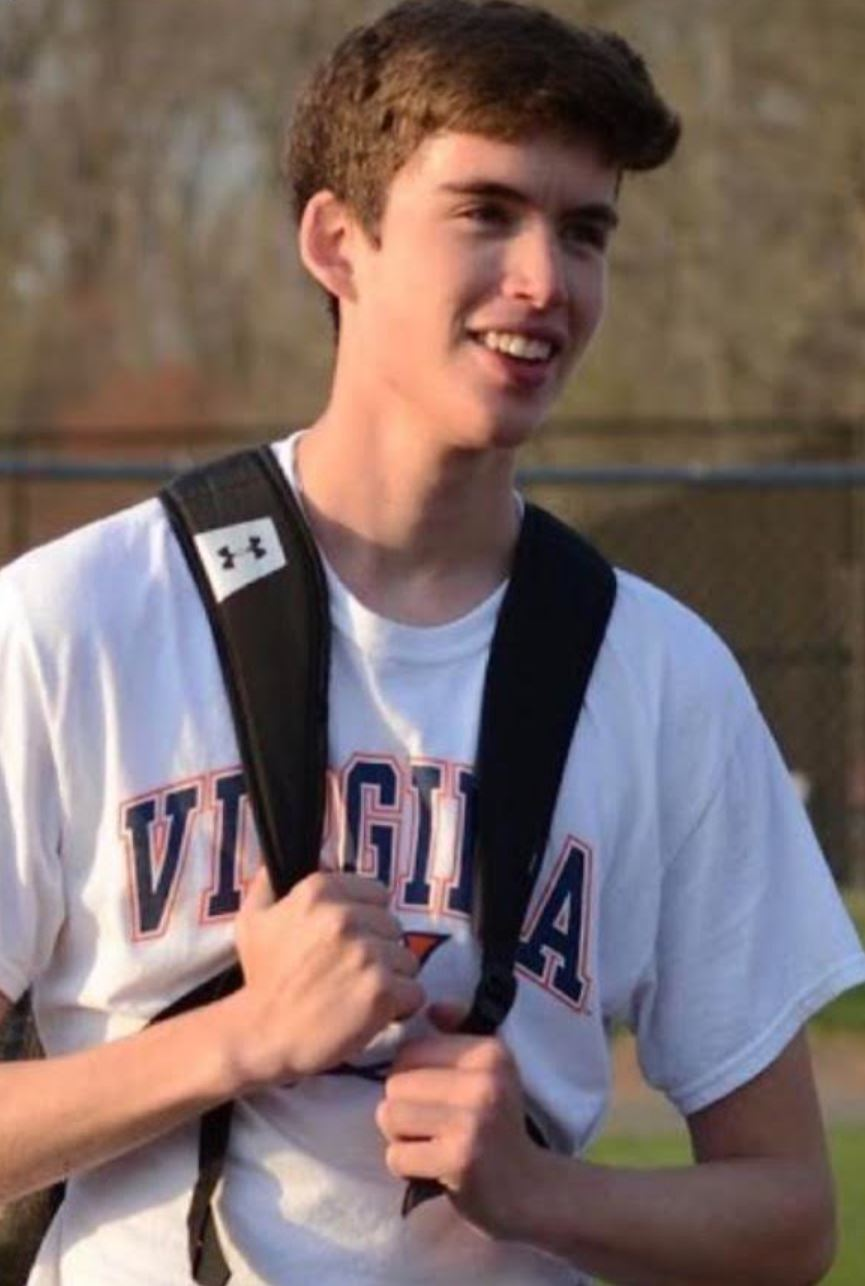
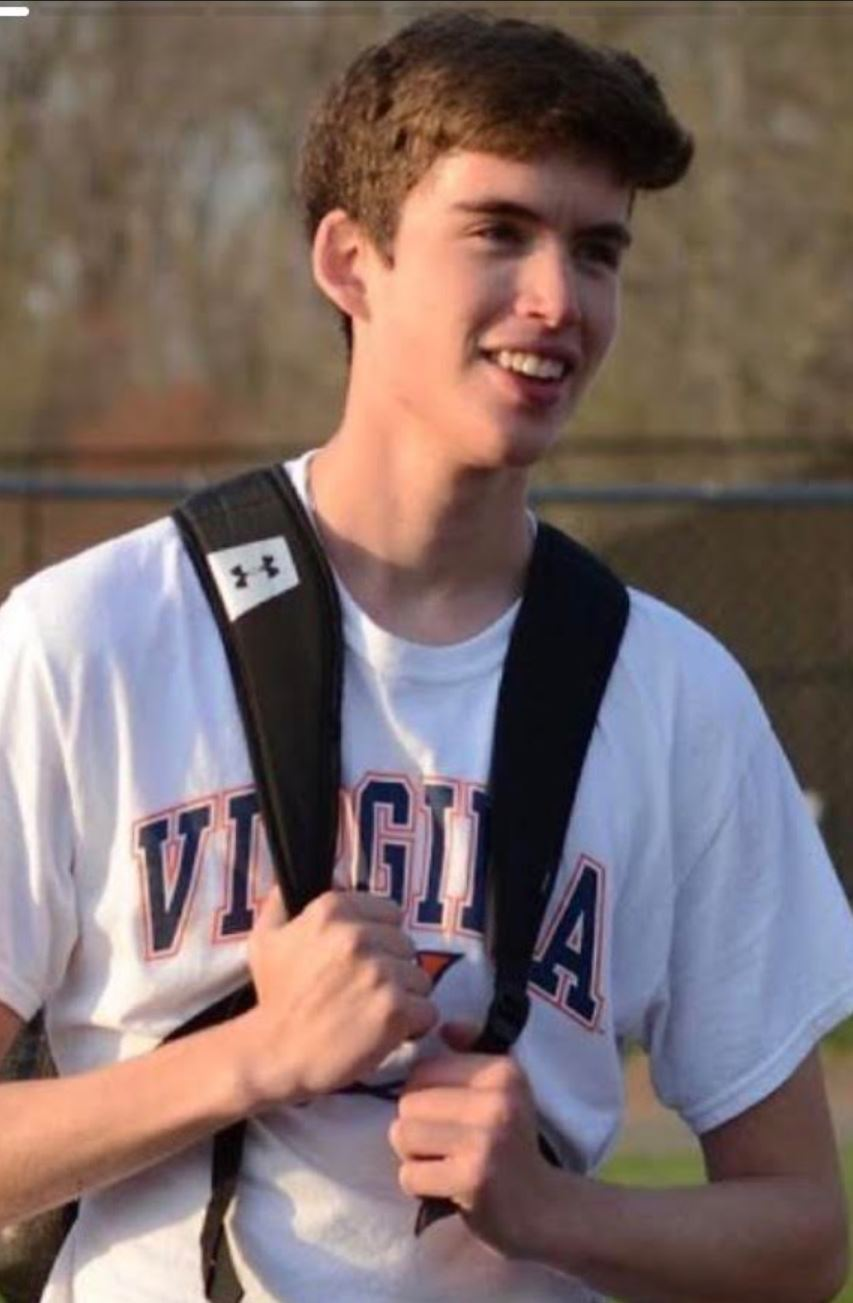
updating team

diff --git a/_site/team/index.html b/_site/team/index.html
@@ -67,7 +67,7 @@
    <h4>Bill Shobe, Ph.D.</h4>
    <p><i>Director; Professor<br /> <a href="https://ceps.coopercenter.org/profile/william-shobe">Cooper Center webpage</a> </i></p>
 
-   <p> Ph.D., Economics, University of Minnesota&lt;/a&gt; <br />
+   <p> Ph.D., Economics, University of Minnesota<br />
  J.D., Lewis and Clark School <br />
  B.A., Political Science, Vanderbilt University</p>
 
@@ -84,7 +84,7 @@
    <h4>Arthur Small, Ph.D.</h4>
    <p><i>Senior Research Scientist<br /> <a href="https://ceps.coopercenter.org/node/494006">Cooper Center webpage</a> </i></p>
 
-   <p> Ph.D., Agricultural and Resource Economics, University of California at Berkeley&lt;/a&gt; <br />
+   <p> Ph.D., Agricultural and Resource Economics, University of California at Berkeley <br />
  M.S., Mathematics, Cornell University <br />
  A.B., Mathematics, Columbia University </p>
 
@@ -96,7 +96,7 @@
    <h4>Anthony Artuso, Ph.D.</h4>
    <p><i>Visiting Scholar<br /> <a href="https://ceps.coopercenter.org/profile/anthony-artuso">Cooper Center webpage</a> </i></p>
 
-   <p> Ph.D., Natural Resource Policy &amp; Management, Cornell University&lt;/a&gt; <br />
+   <p> Ph.D., Natural Resource Policy &amp; Management, Cornell University<br />
  M.S., City and Regional Planning, Kennedy School of Government at Harvard University <br />
  B.S., Environmental Science, Columbia University </p>
 
@@ -113,7 +113,7 @@
    <h4>Roger Zhu</h4>
    <p><i>Doctoral Researcher<br /> <a href="https://www.linkedin.com/in/rogerzhuuva/">LinkedIn</a></i></p>
 
-   <p> Ph.D., Mechanical Engineering, University of Virginia&lt;/a&gt; <br />
+   <p> Ph.D., Mechanical Engineering, University of Virginia<br />
  B.S., Mechanical Engineering, University of Virginia <br />
  B.A., Financial Mathematics, University of Virginia</p>
 
@@ -125,7 +125,7 @@
    <h4>Richard Liu</h4>
    <p><i>Graduate Research Intern<br /> <a href="">LinkedIn</a></i></p>
 
-   <p> M.S., Systems Engineering, University of Virginia &lt;/a&gt; <br />
+   <p> M.S., Systems Engineering, University of Virginia  <br />
        B.S., Management Information Systems, Wuhan University<br /> </p>
 
    <p> Richard works with the Data Science team as well as the Policy Research team. His main focus is currently on the smart power contracting project, which is an integrated system intended to allow more efficient interaction between electricity prosumers and consumers. His research interests include data analytics and system design.  </p>
@@ -140,7 +140,7 @@
  <h4>Stephen Leff</h4>
  <p><i>Policy Analysis Team Member at Darden School of Business<br /> <a href="https://www.linkedin.com/in/stephenleff/">LinkedIn</a></i></p>
 
- <p> Global Executive MBA Candidate, Darden School of Business, UVA <br />
+ <p> Global Executive MBA Candidate, Darden School of Business, University of Virginia <br />
    MSE, Industrial and Systems Engineering, University of Washington <br />
      BSE, Industrial and Operations Engineering, University of Michigan<br /> </p>
 
@@ -152,7 +152,7 @@
 <h4>Alexander Gellerstedt</h4>
 <p><i>Graduate Intern at Batten School<br /> <a href="https://www.linkedin.com/in/alexander-gellerstedt-465997166/?trk=public_profile_browsemap_profile-result-card_result-card_full-click">LinkedIn</a></i></p>
 
-<p> M.P.P., Public Policy Analysis, University of Virginia &lt;/a&gt; <br />
+<p> M.P.P., Public Policy Analysis, University of Virginia <br />
    B.S., Economics, Business, University of Virginia<br /> </p>
 
 <p> Alexander is a member of the Policy Research team. He is currently working on state summaries of clean energy practices for team reports. </p>
@@ -216,7 +216,7 @@
     <h4>Jamison Stevens</h4>
     <p><i>Undergraduate Research Assistant<br /> <a href="https://www.linkedin.com/in/jamisonstevens/">LinkedIn</a></i></p>
 
-      <p> B.S, Electrical Engineering, University of Virginia&lt;/a&gt; <br />
+      <p> B.S, Electrical Engineering, University of Virginia <br />
           B.A, Economics, University of Virginia <br /> </p>
 
     <p> Jamison is a member of the Data Science team and Policy Research team. He works on data and analytics, the publications process, and community solar policy. </p>
@@ -387,7 +387,7 @@ B.A., Psychology, University of Virginia</p>
     <h4>Mai Luu</h4>
     <p><i>Undergraduate Research Assistant<br /> <a href="">LinkedIn</a></i></p>
 
-    <p> B.S., Systems Engineering, University of Virginia&lt;/a&gt; <br />
+    <p> B.S., Systems Engineering, University of Virginia <br />
         A.S., Engineering, Northern Virginia Community College<br /> </p>
 
     <p> Mai is a member of the Data Science team. She mainly contributes to team data management projects. </p>
@@ -419,10 +419,15 @@ B.A., Psychology, University of Virginia</p>
   </div>
 
   <div class="col-sm-6 clearfix">
-    <p><img src="images/teampic/placeholder.JPG" class="img-responsive" width="25%" style="float: left" /></p>
+    <p><img src="images/teampic/Hill.JPG" class="img-responsive" width="25%" style="float: left" /></p>
     <h4>David Hill</h4>
-    <p><i>Graduate Research Intern<br /> <a href="">LinkedIn</a></i></p>
+    <p><i>Graduate Research Intern<br /> <a href="https://www.linkedin.com/in/david-hill-jr-b22b96127">LinkedIn</a></i></p>
 
+    <p> M.E., Systems Engineering, University of Virginia <br />
+        B.S., Computer Science, Howard University <br /> </p>
+
+
+<p> David is a member of the Data Science team. He focuses on the team research project for energy systems modeling, involving Temoa implementation for Virginia. </p>
 
   </div>
 
@@ -431,9 +436,13 @@ B.A., Psychology, University of Virginia</p>
 <div class="row">
 
   <div class="col-sm-6 clearfix">
-    <p><img src="images/teampic/placeholder.JPG" class="img-responsive" width="25%" style="float: left" /></p>
+    <p><img src="images/teampic/Feeney.JPG" class="img-responsive" width="25%" style="float: left" /></p>
     <h4>Allison Feeney</h4>
-    <p><i>Undergraduate Research Intern<br /> <a href="">LinkedIn</a></i></p>
+    <p><i>Undergraduate Research Intern<br /> <a href="https://www.linkedin.com/in/mary-allison-feeney/ ">LinkedIn</a></i></p>
+
+    <p> B.S., Chemical Engineering, University of Virginia </p>
+
+        <p> Allison is a member of the Policy Research team. She contributes to the state summary projects and will also  research energy storage policies. </p>
 
  </div>
 
@@ -449,7 +458,7 @@ B.A., Psychology, University of Virginia</p>
   <p><img src="images/teampic/Aycock.JPG" class="img-responsive" width="25%" style="float: left" /></p>
   <h4>Daniel Aycock</h4>
   <p><i>Associate, CustomerFirst Renewables<br /> <a href="https://www.linkedin.com/in/danielaycock/">LinkedIn</a></i></p>
-  <p> MBA, Darden School of Business, University of Virginia &lt;/a&gt; <br />
+  <p> MBA, Darden School of Business, University of Virginia <br />
 Master of Accountancy, University of Tennessee<br />
 B.S., Business Administration, University of Tennessee</p>
 
